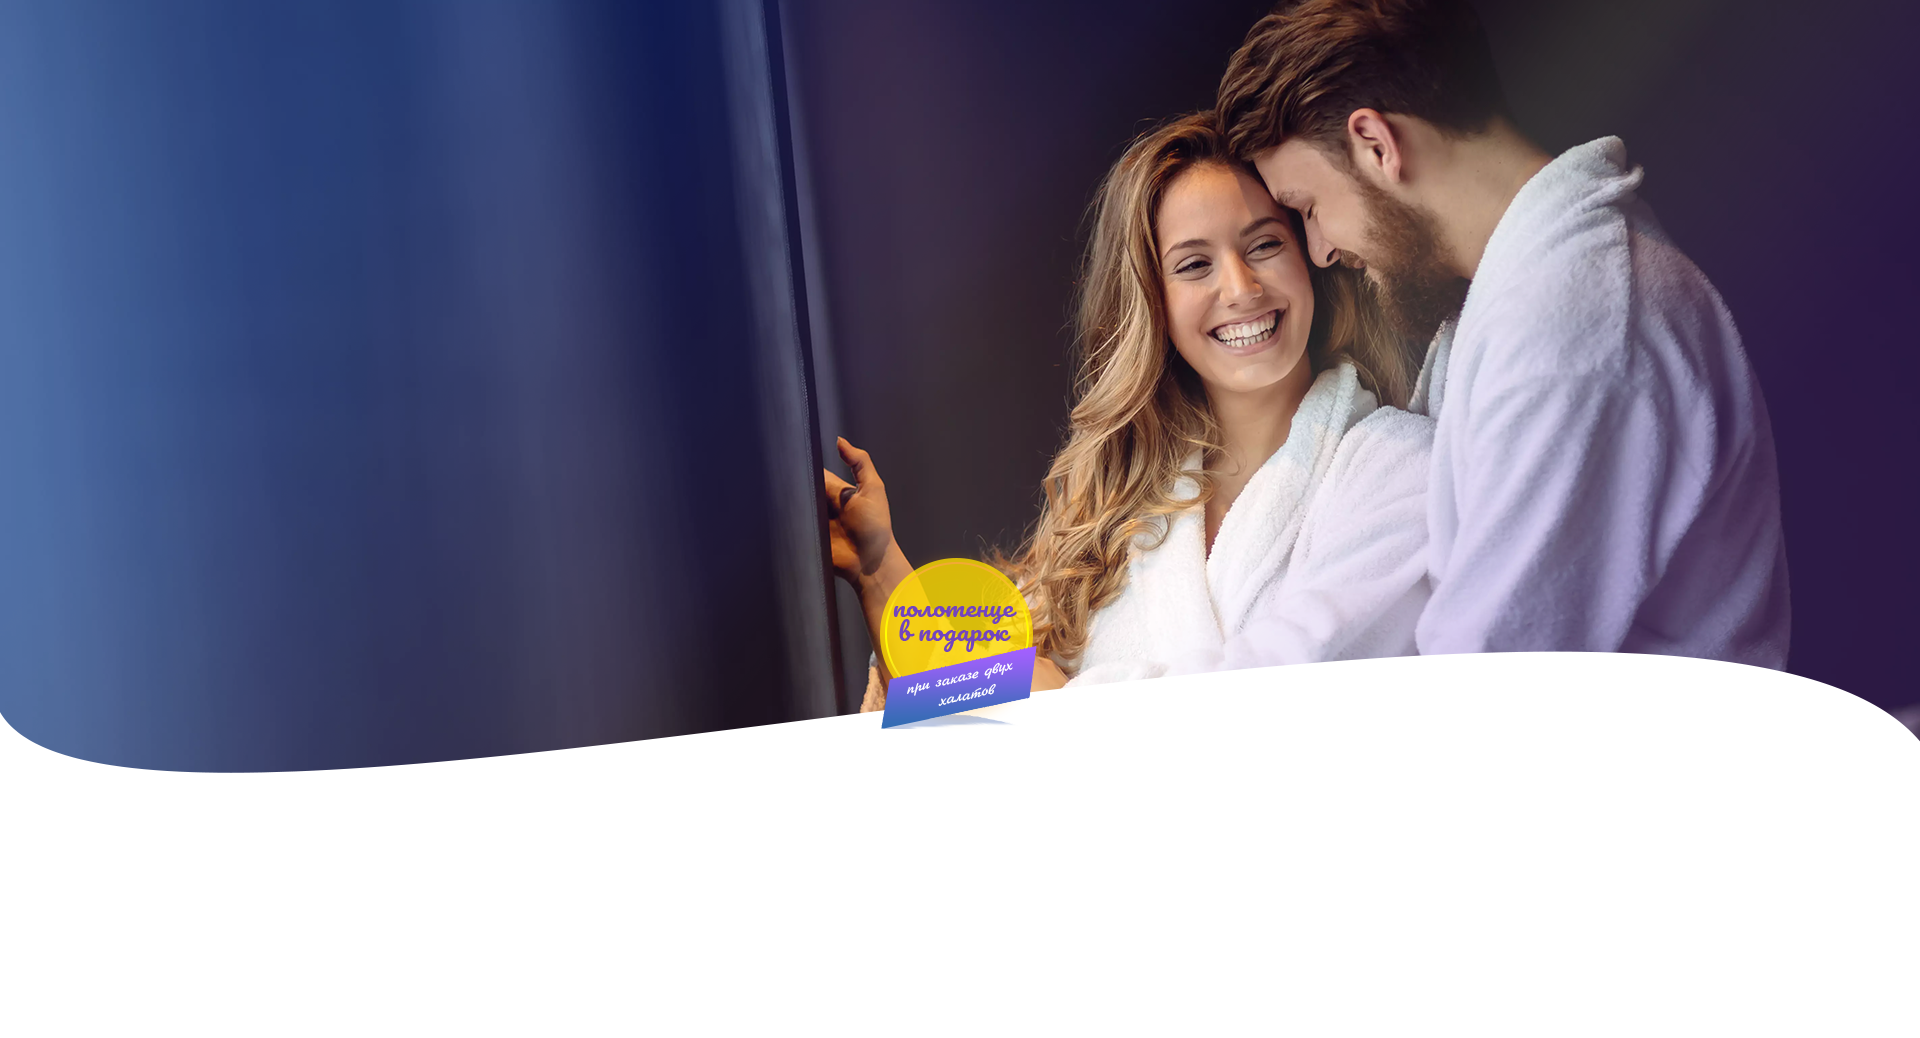
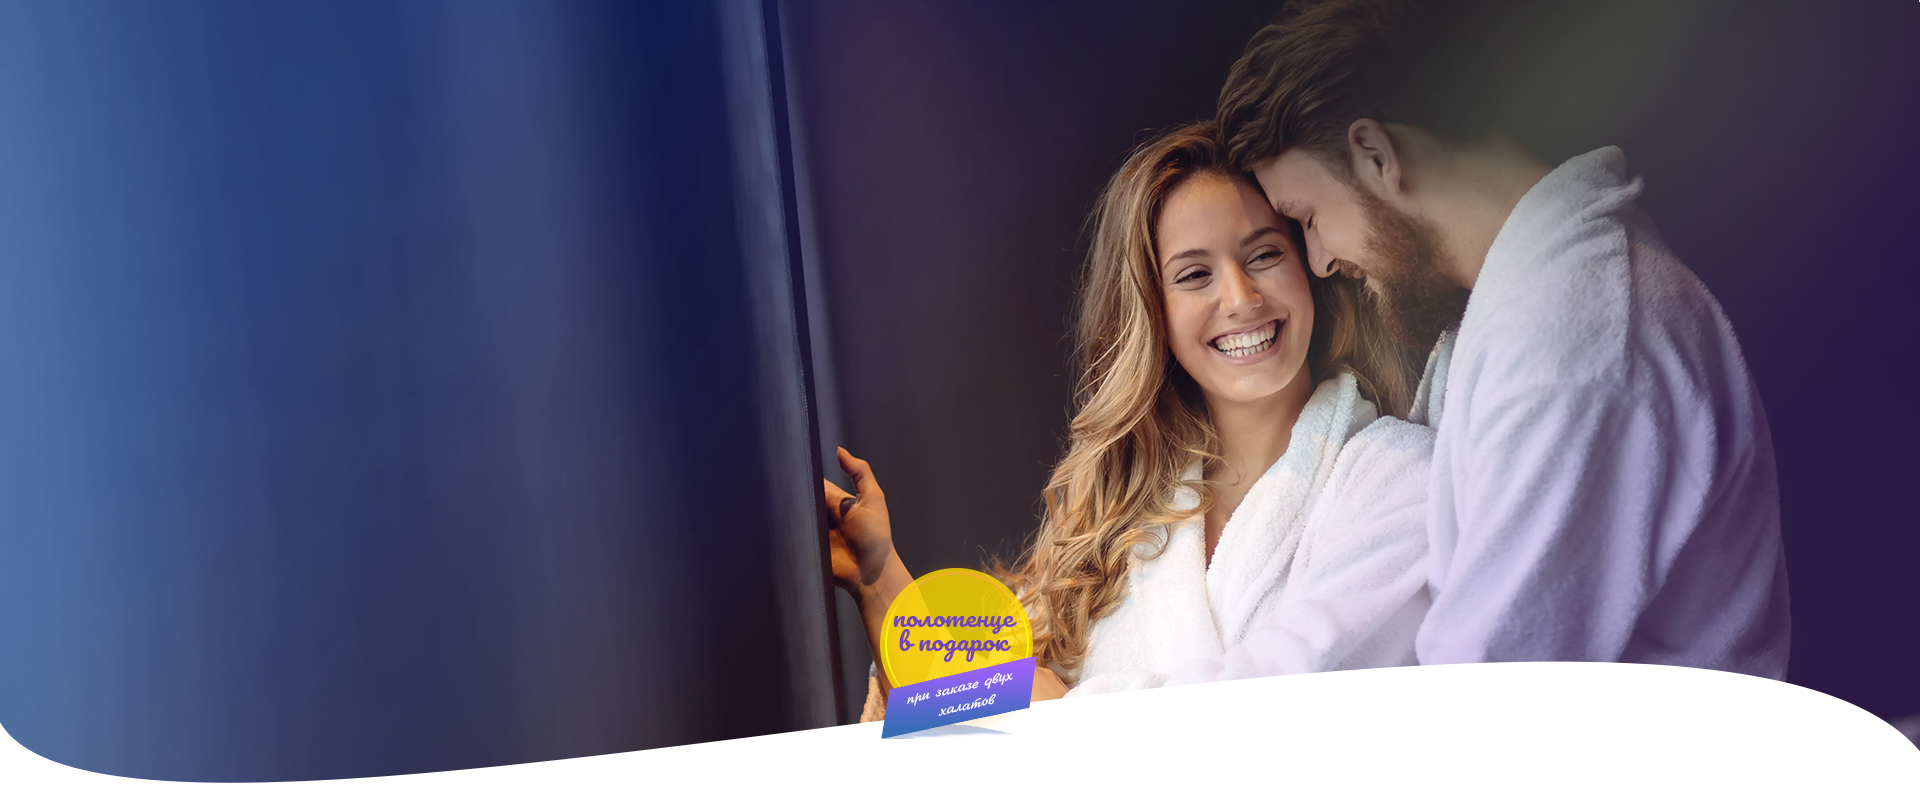
Make adaptiv in intro section, not complete

diff --git a/css/style.css b/css/style.css
@@ -44,6 +44,10 @@ h1,h2,h3,h4,h5,h6,a{
 
 /*--------------Katalog-------------*/
 
+.katalog{
+    position: relative;
+}
+
 .katalog_title {
 	padding: 76px 0;
 
@@ -588,12 +592,12 @@ h1,h2,h3,h4,h5,h6,a{
 /* delivery section end */
 
 
-h2  {
-    font-size: 48px;
-    font-weight: 400;
-    color: #535353;
-    text-align: center;
-}
+/*h2  {*/
+    /*font-size: 48px;*/
+    /*font-weight: 400;*/
+    /*color: #535353;*/
+    /*text-align: center;*/
+/*}*/
 /*OUR XALATS satart*/
 .caption    {
     padding-bottom: 80px;
@@ -680,11 +684,7 @@ h2  {
         left: 25%;
     }
 }
-@media (max-width: 991px) {
-    .circle-img {
-        display: none;
-    }
-}
+
 
 /*OUR XALATS end*/
 
@@ -698,7 +698,7 @@ h2  {
 
 }
 
-.row{ margin-top: 60px;  }
+/*.row{ margin-top: 60px;  }*/
 
 .owl-carousel {
  position:relative;
@@ -884,8 +884,8 @@ h2  {
 
 .intro{
     padding-top: 50px;
-    background: url("../images/header_intro/main-bg.png");
-    background-size: cover;
+    background: url("../images/header_intro/main-bg-two.png");
+    background-size: 100% 100%;
     background-repeat: no-repeat;
 }
 
@@ -902,6 +902,39 @@ h2  {
 
 .intro-item-middle{
     padding-bottom: 200px;
+}
+
+.create-btn{
+    background: linear-gradient(to bottom, rgba(7,77,255,0.95) 0%, rgba(7,77,255,1) 0%, rgba(118,68,188,1) 56%, rgba(118,68,188,1) 100%);
+    color: white;
+    padding: 10px 25px;
+    border-radius: 40px;
+}
+
+.create-btn:hover{
+    color: white;
+}
+
+.share-block{
+    font-family: 'Pacifico', cursive;
+    position: absolute;
+    top: -200px;
+    left: 44%;
+}
+
+.share-text{
+    position: absolute;
+    top: 60px;
+    color: #7044c0;
+    font-size: 24px;
+    left: 40px;
+    text-align: center;
+}
+
+.lili-fone{
+    position: absolute;
+    bottom: -10px;
+    left: 20px;
 }
 
 
@@ -1108,6 +1141,10 @@ h2  {
         /*display: block;*/
     }
 
+    .intro{
+        background-size: cover;
+    }
+
 }
 
 
@@ -1121,6 +1158,55 @@ h2  {
         margin-left: 215px;
     }
 
+}
+
+@media (max-width: 991px) {
+    .circle-img {
+        display: none;
+    }
+
+    .intro-item-middle {
+        padding-bottom: 250px;
+    }
+
+    .share-block {
+        top: -190px;
+        width: 100%;
+    }
+
+    .intro-item-left .product-info{
+        margin-left: 0;
+    }
+
+    .intro-item-left {
+        flex-direction: column;
+        text-align: center;
+    }
+
+    .call-part{
+        text-align: center!important;
+        margin-top: 40px;
+    }
+
+    .intro-item-left{
+        justify-content: center;
+    }
+
+    .intro-item-middle{
+        text-align: center;
+    }
+
+    .call-part .phone a {
+        font-size: 30px!important;
+        padding-bottom: 10px;
+        display: inline-block;
+    }
+
+    .call-part .call-button {
+        padding: 15px 15px;
+        font-size: 22px;
+        margin-top: 20px;
+    }
 }
 
 

diff --git a/index.html b/index.html
@@ -37,7 +37,7 @@
     <section class="intro">
         <div class="container">
             <div class="row">
-                <div class="col-lg-6 intro-item-left">
+                <div class="col-lg-6 col-md-12 col-sm-12 intro-item-left">
                     <div class="logo">
                         <a href="#"><img src="images/header_intro/logo.png" alt=""></a>
                     </div>
@@ -47,7 +47,7 @@
 
                     </div>
                 </div>
-                <div class="col-lg-6 intro-item-right">
+                <div class="col-lg-6 col-md-12 col-sm-12 intro-item-right">
                     <div class="call-part">
                         <p class="phone"><a href="">+7(926) 717-39-51</a></p>
                         <p class="whatsApp"><em>(WhatsApp/Viber)</em></p>
@@ -57,7 +57,7 @@
             </div>
 
             <div class="row">
-                <div class="col-lg-6 intro-item-middle">
+                <div class="col-lg-6 col-md-12 intro-item-middle">
                     <h2 class="intro-item-middle-text">Именной халат
                         с вышивкой</h2>
                     <p class="intro-middle-subtext">Создавайте дизайн вашего халата!</p>
@@ -72,6 +72,13 @@
 
         <section class="katalog">
             <div class="container">
+                <div class="share-block">
+                    <div class="helper">
+                        <span class="share-text">полотенце<br>в подарок</span>
+                        <img src="images/header_intro/moneta.png" alt="">
+                        <img class="lili-fone" src="images/header_intro/lilo-fone.png" alt="">
+                    </div>
+                </div>
                 <h2 class="katalog_title">Каталог</h2>
 
                 <div class="products-catalog">
@@ -174,7 +181,6 @@
                         </div>
                     </div>
                 </div>
-
             </div>
         </section>
 
